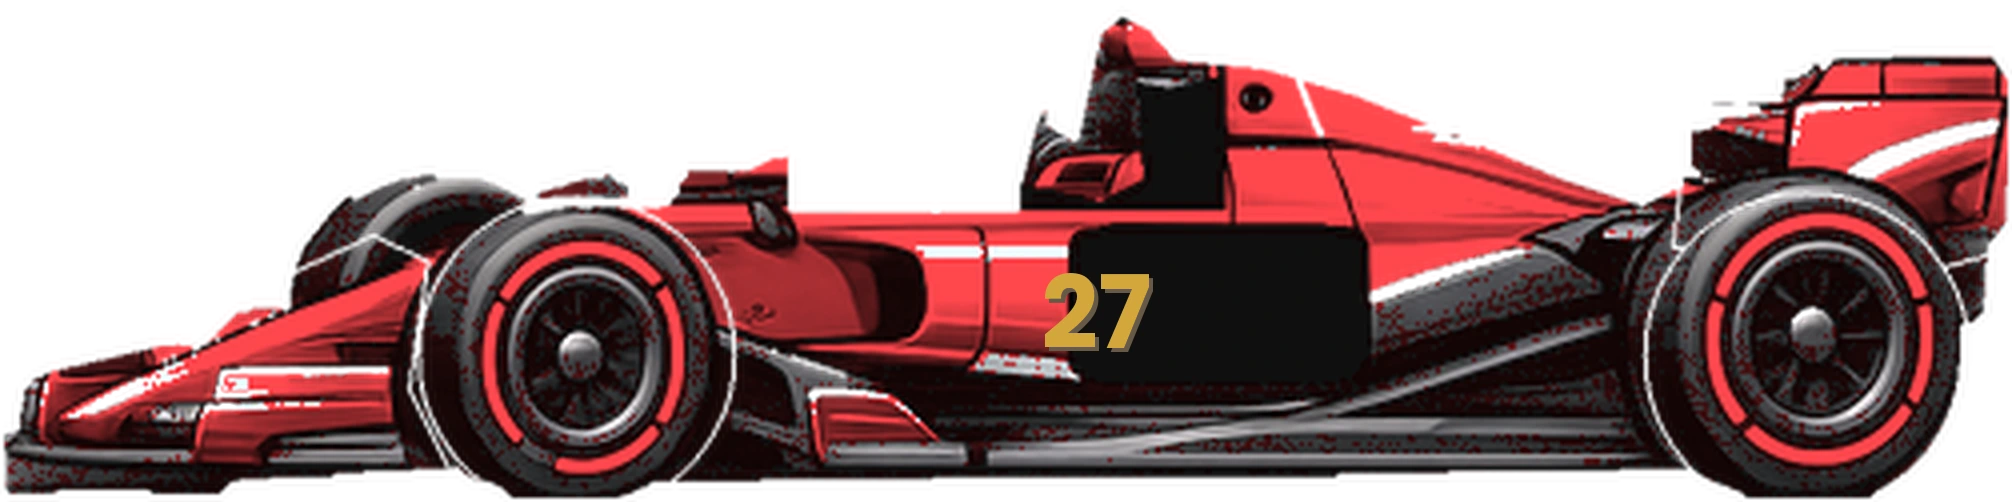
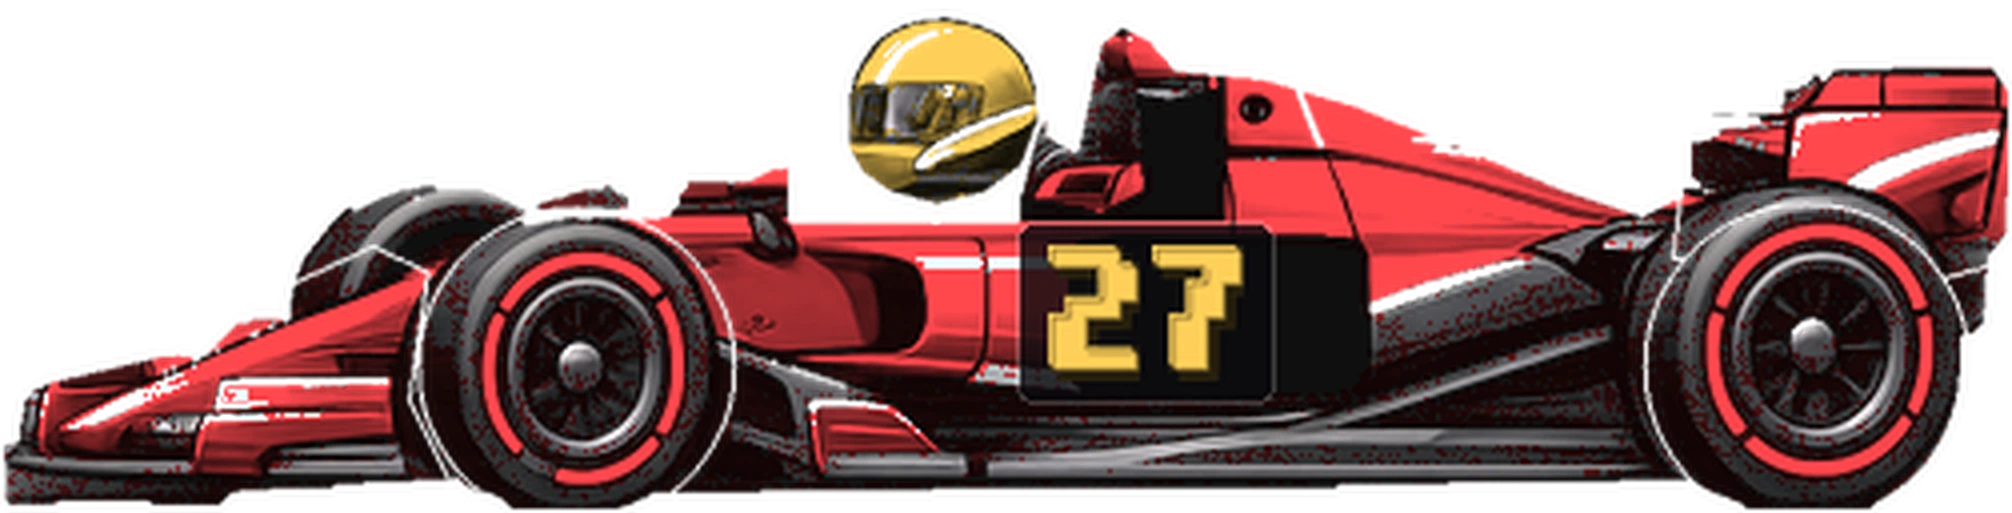
Due correzioni richieste da Gio dopo la prima ristrutturazione.
AUTO: il numero '27' disegnato a mano con un font generico ('fatto male') sostituito con le vere cifre del gioco (assets/digits/immortal_2.png e immortal_7.png, la stessa fonte usata realmente nel gioco per i numeri di gara), ricolorate in oro con lo stesso metodo di saturazione mirata già usato per il corpo dell'auto — non piu' testo disegnato, ma lo stesso identico stile pixel-art del gioco vero, con tanto di targa scura e leggera inclinazione come nel gioco.

Aggiunto anche il pilota mancante: l'elmo Immortal del gioco (stesso file usato per il cockpit nelle auto vere), composto nella posizione esatta di cockpit (stesso ordine di livelli del gioco: telaio, aero, gomme, elmo), ricolorato in oro invece che rosso come richiesto.

SITO: rimosso il pulsante secondario 'Entra nel progetto' dalla hero — resta solo 'Gioca ora', reso più grande e con un bagliore pulsante sottile (non invadente) per catturare l'occhio.

Verificato dal vivo su desktop e mobile: zero errori console, numero perfettamente leggibile, pilota dorato visibile nel cockpit, pulsante unico ben evidente.

diff --git a/index.html b/index.html
@@ -211,6 +211,18 @@
       pointer-events: none;
     }
     .card-title-hero { font-size: clamp(60px, 6.5vw, 104px); }
+    .button-play-hero {
+      min-height: 62px;
+      padding: 0 34px;
+      font-size: 13px;
+      letter-spacing: .14em;
+      box-shadow: 0 8px 30px rgba(229,71,50,.4);
+      animation: play-pulse 2.6s ease-in-out infinite;
+    }
+    @keyframes play-pulse {
+      0%, 100% { box-shadow: 0 8px 30px rgba(229,71,50,.4); }
+      50% { box-shadow: 0 8px 40px rgba(229,71,50,.7), 0 0 0 6px rgba(229,71,50,.12); }
+    }
     .micro {
       color: var(--signal);
       font: 11px/1.5 ui-monospace, SFMono-Regular, Menlo, monospace;
@@ -682,9 +694,8 @@
             <div class="micro" data-lang-text="project001Status">PROJECT 001 / DISPONIBILE ORA</div>
             <div class="card-title card-title-hero">RACING<br>DYNASTY</div>
             <p class="card-text" data-lang-text="gameCardCopy">Costruisci la scuderia, conquista due campionati e trasforma ogni stagione in una storia diversa.</p>
-            <div style="display:flex;gap:14px;flex-wrap:wrap;align-items:center;margin-top:8px;">
-              <a class="button primary" href="https://fuoriscala-dev.github.io/racing-dynasty/" target="_blank" rel="noopener" data-lang-text="playNow">Gioca ora ↗</a>
-              <button class="card-link open-game" type="button" data-lang-text="enterProject">Entra nel progetto ↗</button>
+            <div style="margin-top:16px;">
+              <a class="button primary button-play-hero" href="https://fuoriscala-dev.github.io/racing-dynasty/" target="_blank" rel="noopener" data-lang-text="playNow">Gioca ora ↗</a>
             </div>
           </div>
         </article>
